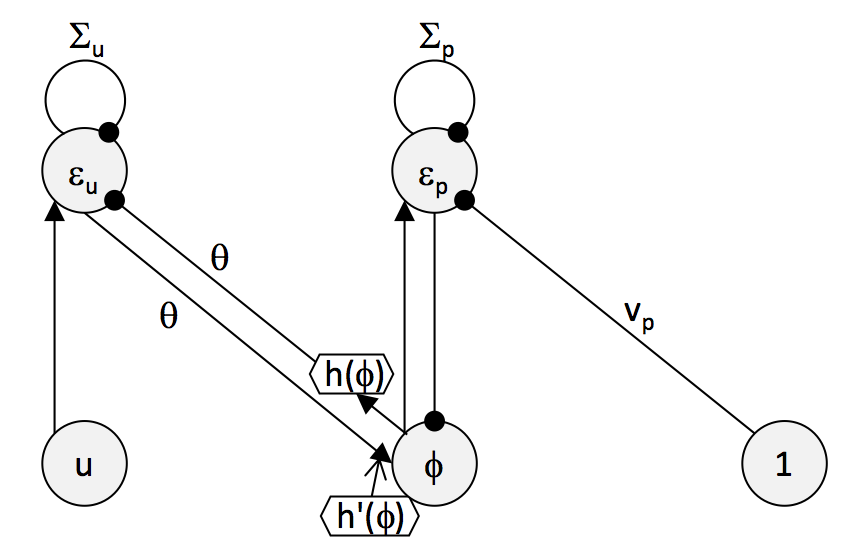
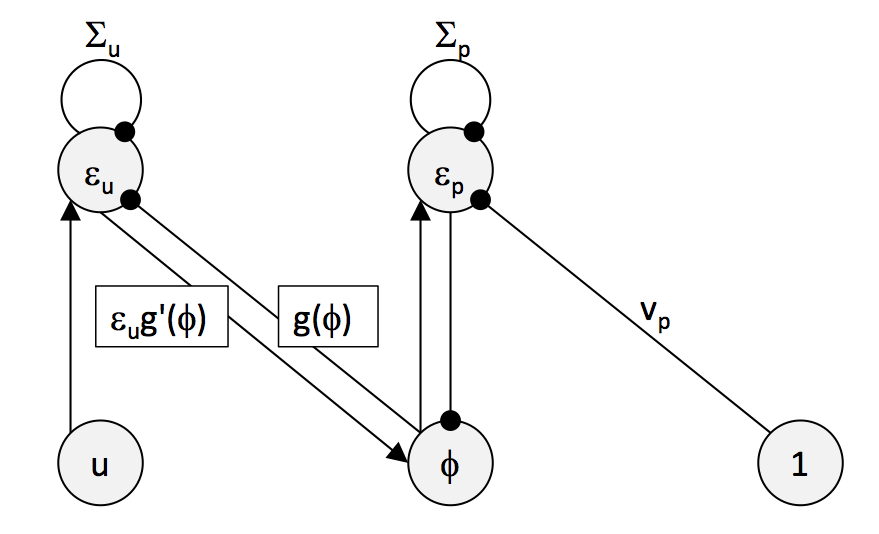
add network graphs

diff --git a/_site/finprojects/free-energy/index.html b/_site/finprojects/free-energy/index.html
@@ -51,7 +51,7 @@
 
 
   <meta property="og:type" content="article">
-  <meta property="article:published_time" content="2017-02-07T09:40:35+01:00">
+  <meta property="article:published_time" content="2017-02-07T09:51:38+01:00">
 
 
 
@@ -365,6 +365,8 @@
 
 <p>that arise from the assumption that the input is normally distributed (again, see Bogaez for derivations).</p>
 
+<p>Below the network dynamics are sketched. Arrows denote excitatory input, circles inhibitory input,   and unless specified (<script type="math/tex">\theta,v_p,\Sigma_u,\Sigma_p</script>), weights of connections are assumed to be one.</p>
+
 <p><img src="https://tmorville.github.io//assets/images/Bogacz_graph_1.png" alt="png"></p>
 
 <p>The next snippit of code implements those dynamics and thus, the network “learns” what value of <script type="math/tex">\phi</script> that maximises the posterior.</p>
@@ -413,7 +415,7 @@
 
 <p><img src="https://tmorville.github.io//assets/images/Bogacz_11_0.png" alt="png"></p>
 
-<p>As the figure shows, the network learns <span style="color: blue"><script type="math/tex">\phi</script></span> but is slower in converging than when using Eulers method, as the model relies on several other nodes that are inhibits and excites each other, which causes oscillatory behaviour. Both <span style="color:green"><script type="math/tex">\epsilon_p</script></span> and <span style="color:red"><script type="math/tex">\epsilon_v</script></span> oscillate and converge to the values where</p>
+<p>As the figure shows, the network learns <span style="color: blue"><script type="math/tex">\phi</script></span> but is slower in converging than when using Eulers method, as the model relies on several other nodes that are inhibits and excites each other, which causes oscillatory behaviour. Both <span style="color:green"><script type="math/tex">\epsilon_p</script></span> and <span style="color:red"><script type="math/tex">\epsilon_v</script></span>oscillate and converge to the values where</p>
 
 <script type="math/tex; mode=display">\epsilon_{p} \approx 0</script>
 
@@ -432,7 +434,11 @@
 
 <script type="math/tex; mode=display">\epsilon_{i}=\frac{\phi_{i}-g(\phi_{i+1})}{\Sigma_{i}}</script>
 
-<p>where <script type="math/tex">\Sigma_{i}=\left\langle (\phi_{i}-g_{i}(\phi_{i+1})^{2}\right\rangle</script> is the variance of homeostatic error <script type="math/tex">\phi_{i}</script>. Estimation of <script type="math/tex">\Sigma</script> can be achieved by adding a interneuron <script type="math/tex">e_{i}</script> which is connected to the prediction error node, and receives input from this via the connection with weight encoding <script type="math/tex">\Sigma_{i}</script>. The dynamics are described by</p>
+<p>where <script type="math/tex">\Sigma_{i}=\left\langle (\phi_{i}-g_{i}(\phi_{i+1})^{2}\right\rangle</script> is the variance of the best guess of <script type="math/tex">v</script>, <script type="math/tex">\phi_{i}</script>. Estimation of <script type="math/tex">\Sigma</script> can be achieved by adding a interneuron <script type="math/tex">e_{i}</script> which is connected to the prediction error node, and receives input from this via the connection with weight encoding <script type="math/tex">\Sigma_{i}</script>, such as sketched in the figure below.</p>
+
+<p><img src="https://tmorville.github.io//assets/images/Bogacz_graph_2.png" alt="png"></p>
+
+<p>The dynamics are described by</p>
 
 <script type="math/tex; mode=display">\dot{\epsilon_{i}} = \phi_{i}-g(\phi_{i+1})-e_{i}</script>
 
@@ -510,7 +516,7 @@
 
 
         
-          <p class="page__date"><strong><i class="fa fa-fw fa-calendar" aria-hidden="true"></i> Updated:</strong> <time datetime="2017-02-07T09:40:35+01:00">February 07, 2017</time></p>
+          <p class="page__date"><strong><i class="fa fa-fw fa-calendar" aria-hidden="true"></i> Updated:</strong> <time datetime="2017-02-07T09:51:38+01:00">February 07, 2017</time></p>
         
       </footer>
 

diff --git a/_site/projects/visual-attention/index.html b/_site/projects/visual-attention/index.html
@@ -51,7 +51,7 @@
 
 
   <meta property="og:type" content="article">
-  <meta property="article:published_time" content="2017-02-07T09:40:35+01:00">
+  <meta property="article:published_time" content="2017-02-07T09:51:38+01:00">
 
 
 
@@ -200,7 +200,7 @@ deal effectively with others.” (William James, Principles of Psychology, 1890)
 
 
         
-          <p class="page__date"><strong><i class="fa fa-fw fa-calendar" aria-hidden="true"></i> Updated:</strong> <time datetime="2017-02-07T09:40:35+01:00">February 07, 2017</time></p>
+          <p class="page__date"><strong><i class="fa fa-fw fa-calendar" aria-hidden="true"></i> Updated:</strong> <time datetime="2017-02-07T09:51:38+01:00">February 07, 2017</time></p>
         
       </footer>
 

diff --git a/_site/finprojects/coin-game/index.html b/_site/finprojects/coin-game/index.html
@@ -51,7 +51,7 @@
 
 
   <meta property="og:type" content="article">
-  <meta property="article:published_time" content="2017-02-07T09:40:35+01:00">
+  <meta property="article:published_time" content="2017-02-07T09:51:38+01:00">
 
 
 
@@ -437,7 +437,7 @@
 
 
         
-          <p class="page__date"><strong><i class="fa fa-fw fa-calendar" aria-hidden="true"></i> Updated:</strong> <time datetime="2017-02-07T09:40:35+01:00">February 07, 2017</time></p>
+          <p class="page__date"><strong><i class="fa fa-fw fa-calendar" aria-hidden="true"></i> Updated:</strong> <time datetime="2017-02-07T09:51:38+01:00">February 07, 2017</time></p>
         
       </footer>
 

diff --git a/_site/projects/inverted-pendulum/index.html b/_site/projects/inverted-pendulum/index.html
@@ -51,7 +51,7 @@
 
 
   <meta property="og:type" content="article">
-  <meta property="article:published_time" content="2017-02-07T09:40:35+01:00">
+  <meta property="article:published_time" content="2017-02-07T09:51:38+01:00">
 
 
 
@@ -194,7 +194,7 @@
 
 
         
-          <p class="page__date"><strong><i class="fa fa-fw fa-calendar" aria-hidden="true"></i> Updated:</strong> <time datetime="2017-02-07T09:40:35+01:00">February 07, 2017</time></p>
+          <p class="page__date"><strong><i class="fa fa-fw fa-calendar" aria-hidden="true"></i> Updated:</strong> <time datetime="2017-02-07T09:51:38+01:00">February 07, 2017</time></p>
         
       </footer>
 

diff --git a/_site/projects/np-network/index.html b/_site/projects/np-network/index.html
@@ -51,7 +51,7 @@
 
 
   <meta property="og:type" content="article">
-  <meta property="article:published_time" content="2017-02-07T09:40:35+01:00">
+  <meta property="article:published_time" content="2017-02-07T09:51:38+01:00">
 
 
 
@@ -265,7 +265,7 @@
 
 
         
-          <p class="page__date"><strong><i class="fa fa-fw fa-calendar" aria-hidden="true"></i> Updated:</strong> <time datetime="2017-02-07T09:40:35+01:00">February 07, 2017</time></p>
+          <p class="page__date"><strong><i class="fa fa-fw fa-calendar" aria-hidden="true"></i> Updated:</strong> <time datetime="2017-02-07T09:51:38+01:00">February 07, 2017</time></p>
         
       </footer>
 

diff --git a/_site/projects/two-sigma/index.html b/_site/projects/two-sigma/index.html
@@ -51,7 +51,7 @@
 
 
   <meta property="og:type" content="article">
-  <meta property="article:published_time" content="2017-02-07T09:40:35+01:00">
+  <meta property="article:published_time" content="2017-02-07T09:51:38+01:00">
 
 
 
@@ -223,7 +223,7 @@
 
 
         
-          <p class="page__date"><strong><i class="fa fa-fw fa-calendar" aria-hidden="true"></i> Updated:</strong> <time datetime="2017-02-07T09:40:35+01:00">February 07, 2017</time></p>
+          <p class="page__date"><strong><i class="fa fa-fw fa-calendar" aria-hidden="true"></i> Updated:</strong> <time datetime="2017-02-07T09:51:38+01:00">February 07, 2017</time></p>
         
       </footer>
 

diff --git a/_finprojects/free-energy.md b/_finprojects/free-energy.md
@@ -206,12 +206,12 @@ $$ \epsilon_{s} = \frac{s-g(\phi)}{\Sigma_{s}} $$
 
 that arise from the assumption that the input is normally distributed (again, see Bogaez for derivations).
 
+Below the network dynamics are sketched. Arrows denote excitatory input, circles inhibitory input,   and unless specified ($$\theta,v_p,\Sigma_u,\Sigma_p$$), weights of connections are assumed to be one.
+
 ![png]({{ site.url }}{{ site.baseurl }}/assets/images/Bogacz_graph_1.png)
 
 
 The next snippit of code implements those dynamics and thus, the network "learns" what value of $$\phi$$ that maximises the posterior. 
-
-
 
 
 ```python
@@ -259,7 +259,7 @@ learn_phi()
 ![png]({{ site.url }}{{ site.baseurl }}/assets/images/Bogacz_11_0.png)
 
 
-As the figure shows, the network learns <span style="color: blue">$$\phi$$</span> but is slower in converging than when using Eulers method, as the model relies on several other nodes that are inhibits and excites each other, which causes oscillatory behaviour. Both <span style="color:green">$$\epsilon_p$$</span> and <span style="color:red">$$\epsilon_v$$</span> oscillate and converge to the values where
+As the figure shows, the network learns <span style="color: blue">$$\phi$$</span> but is slower in converging than when using Eulers method, as the model relies on several other nodes that are inhibits and excites each other, which causes oscillatory behaviour. Both <span style="color:green">$$\epsilon_p$$</span> and <span style="color:red">$$\epsilon_v$$</span>oscillate and converge to the values where
 
 $$ \epsilon_{p} \approx 0 $$
 
@@ -277,7 +277,11 @@ By expanding this simple model, we can esimate the variance $$\Sigma$$ of the no
 
 $$ \epsilon_{i}=\frac{\phi_{i}-g(\phi_{i+1})}{\Sigma_{i}} $$
  
-where $$\Sigma_{i}=\left\langle (\phi_{i}-g_{i}(\phi_{i+1})^{2}\right\rangle$$ is the variance of homeostatic error $$\phi_{i}$$. Estimation of $$\Sigma$$ can be achieved by adding a interneuron $$e_{i}$$ which is connected to the prediction error node, and receives input from this via the connection with weight encoding $$\Sigma_{i}$$. The dynamics are described by
+where $$\Sigma_{i}=\left\langle (\phi_{i}-g_{i}(\phi_{i+1})^{2}\right\rangle$$ is the variance of the best guess of $$v$$, $$\phi_{i}$$. Estimation of $$\Sigma$$ can be achieved by adding a interneuron $$e_{i}$$ which is connected to the prediction error node, and receives input from this via the connection with weight encoding $$\Sigma_{i}$$, such as sketched in the figure below.
+
+![png]({{ site.url }}{{ site.baseurl }}/assets/images/Bogacz_graph_2.png)
+
+The dynamics are described by
 
 $$ \dot{\epsilon_{i}} = \phi_{i}-g(\phi_{i+1})-e_{i} $$
 
